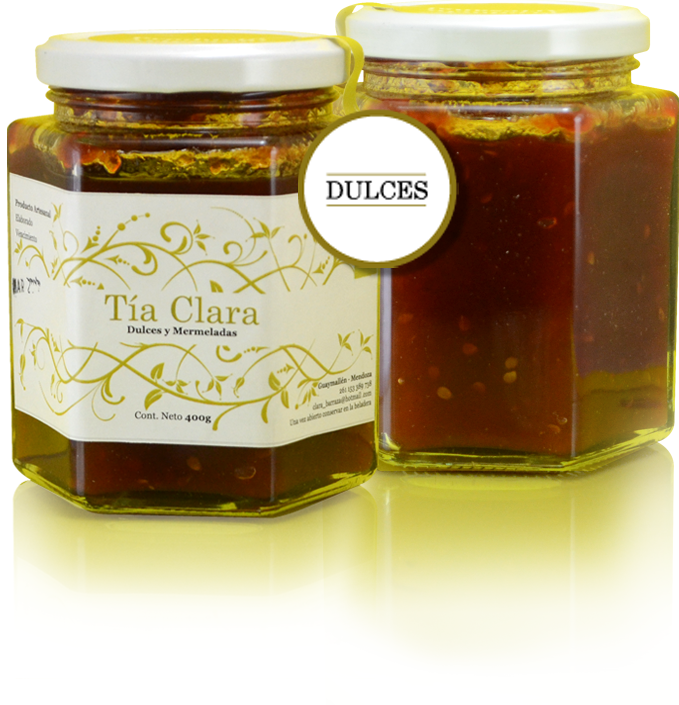
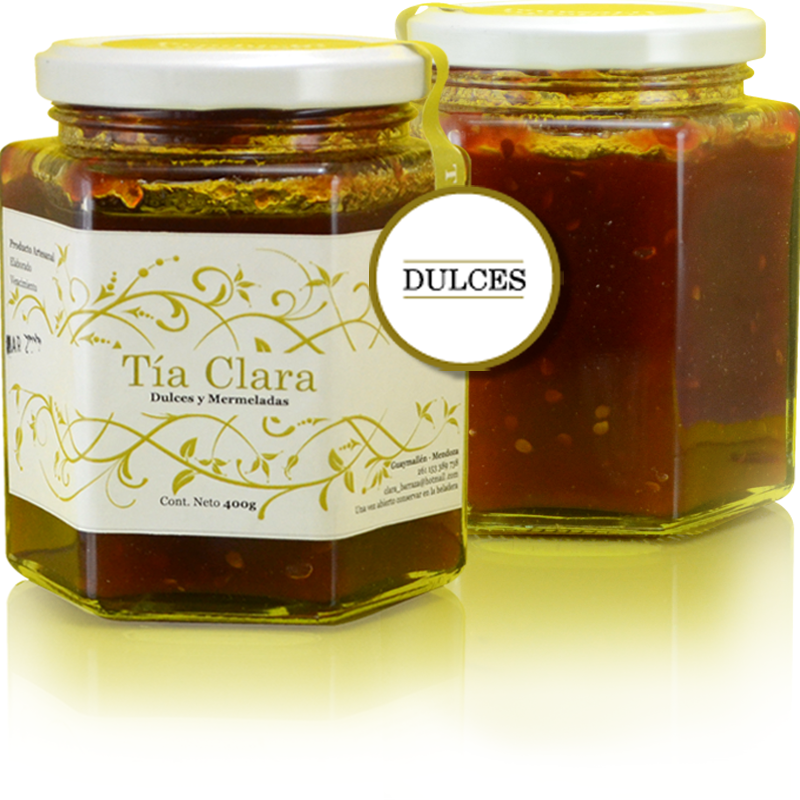
Cambios Estefi
Cambios sutiles sobre el ultimo cambio subido por Fer, ahi en el html
comente lo que iba haciendo.

diff --git a/tia-clara-maquetado/css/styles.css b/tia-clara-maquetado/css/styles.css
@@ -45,6 +45,7 @@ header{
     -webkit-box-sizing: border-box;
     -moz-box-sizing:border-box;
     box-sizing:border-box;
+    /*para que era esto? estefi*/
 }
 header nav{
     width: 100%;
@@ -80,7 +81,9 @@ footer {
     display: inline-block;
     overflow: hidden;
     width: 25%;
+    /*width tb cambia tamaños de los frascos*/
     min-width: 190px;
+     /*mind -width tamaño de los frascos*/
 
 }
 .categorias figcaption{
@@ -93,11 +96,16 @@ footer {
     font-family: 'icomoon';
 }
 
+.menu {
+    margin-right: 65px;
+    /*con esto alinie(?) el menu con los frascos*/
+}
+
 .menu li {
     display:inline-block;
-    font-size: 20px;
+    font-size: 16px; /* antes 20px */
     position: relative;
-    margin: 0em 2em 0.5em 0em;
+    margin: 0em 2em 1em 0em;
     padding: 0.1em;
     float: left;
 
@@ -109,6 +117,9 @@ footer {
         1px 1px 0px rgba(160,160,160,1),
         1px 1px 0px rgba(0,0,0,1),
         1px 1px 0px rgba(0,0,0,0.5);
+
+        
+
         */
 }
 
@@ -146,16 +157,34 @@ footer {
     position: absolute;
 }
 
+/* --------------- nuevo, estefi, guarda ------*/
+.guarda {
+    width: 100%;
+    padding: 0px;
+    margin: 0em 2em 10em 0em;
+}
+
+.guarda img{
+    width: 100%;
+    position: absolute;
+}
+/* --------------- hasta aca ------*/
+
 .marca img{
-    width:20%;
+    width:15%;
     float: left;
     position: relative;
     min-width: 150px;
+    /* width: 20% (medidas originales) tamaño de la marca!!!!*/
+    margin-left: 65px;
+    /*agregue un margin left para alinear el logo con el frasco */
+
 }
 
 .sello img{
     position: relative;
-    margin: 6em 2em 7em 67em;
+    margin: 4em 0em 0em 60em;
+    /* margin: 6em 2em 7em 67em (medidas originales) se maneja la posicion de los frascos sobre la imagen de fondo*/
 }
 
 /* Para agregar la Animacion */
@@ -200,6 +229,10 @@ transform: scale(1.1)
     float: left;
     margin: 1%;
     min-width: 150px;
+    /*  width:70%;
+    float: left;
+    margin: 1%;
+    min-width: 150px; (medidas originales) ? */
  }
 .menu-bar{
     display: block;
@@ -242,14 +275,17 @@ transform: scale(1.1)
     padding: 0;
     margin: 0;
 }
+
 .fondo-nosotros img{
     width: 100%;
 }
+
 
 .historia h2{
     margin: 0em 0.5em 0.5em 0.6em;
     padding: 0.5em 1em 0em 2em;
 }
+
 .historia >  p {
     margin: 0em 2em 0em 2em;
     padding: 0.5em 1em 0em 2em;

diff --git a/tia-clara-maquetado/index.html b/tia-clara-maquetado/index.html
@@ -29,11 +29,11 @@
 		</nav>
 	</header>
 	<figure class="fondo-arbol">
-		<img src="img/arbolito.jpg" alt="fondo del home">
+		<img src="img/arbolito-1600x450.jpg" alt="fondo del home">
 	</figure>
 	<aside>
 		<figure class="sello">
-			<img src="img/sello-producto-artesanal.png" alt="sello">
+			<img src="img/sello-producto-artesanal-130x130.png" alt="sello">
 		</figure>
 		<figure class="categorias">
 			<img class="zoomIt" src="img/dulce-de-tomate-home-al-corte-home.png" alt="dulces">	
@@ -41,6 +41,9 @@
 			<img class="zoomIt" src="img/jalea-de-higo-home-al-corte-home.png" alt="jaleas">
 			<figcaption>Dulces,Mermeladas y Jaleas - Probalos!</figcaption>
 		</figure>
+        <figure class="guarda">
+		<img src="img/guarda-1600x169.png" alt="guarda home">
+	</figure>
 	</aside>
 	<footer>
 		<h4>Pedidos por encargo: 261 3 389 738 / clarabarraza6@gmail.com</h4>

diff --git a/tia-clara-maquetado/nosotros.html b/tia-clara-maquetado/nosotros.html
@@ -29,11 +29,11 @@
 		</nav>
 	</header>
 	<figure class="fondo-nosotros">
-		<img src="img/nosotros.jpg" alt="#">
+		<img src="img/nosotros-1600x400.jpg" alt="cocina">
 	</figure>
 	<aside class="historia">
 		<figure class="sello-nosotros">
-			<img src="img/sello-producto-artesanal.png" alt="#">
+			<img src="img/sello-producto-artesanal-130x130.png" alt="sello">
 		</figure>
 		<h2>Nuestra historia</h2>
 		<p>Siempre fuimos partidarios de consumir productos “hechos en casa” y lo logramos poniendo manos a la obra. Así fue como comenzamos a elaborar para consumo familiar, nuestros dulces , mermeladas y frutas en almíbar. En nuestra cocina se conjugaban las mejores frutas seleccionadas de estación, permitiéndonos disfrutar de una exquisita variedad de sabores durante todo el año.</p>

diff --git a/tia-clara-maquetado/mermeladas.html b/tia-clara-maquetado/mermeladas.html
@@ -32,7 +32,7 @@
 		<h2>Clásicas</h2>
 		<ul class="productos">
 			<li>#
-				<img src="img/arandanos-fondo-1600x500.png" alt="#">
+				<img src="img/arandanos-fondo-1600x400.png" alt="#">
 				<p>Acompañalas con carnes rojas o tostadas de pan integral</p>
 			</li>
 			<li>
